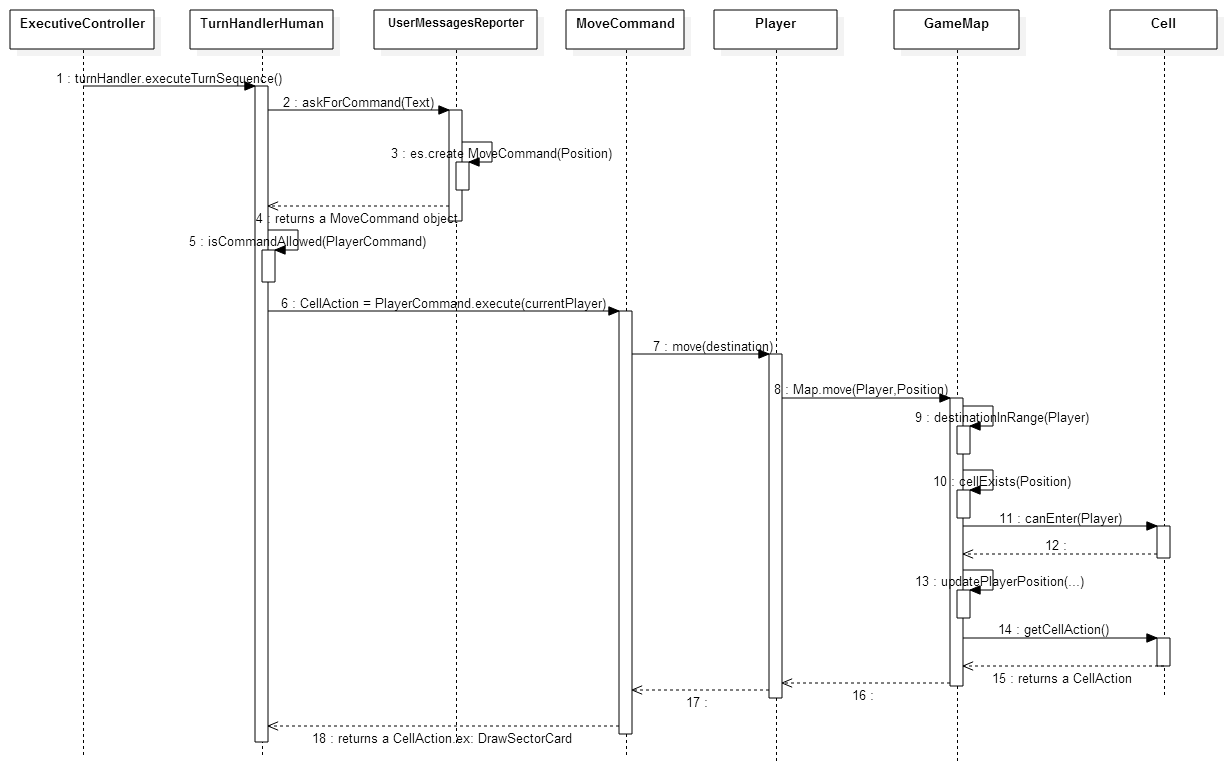
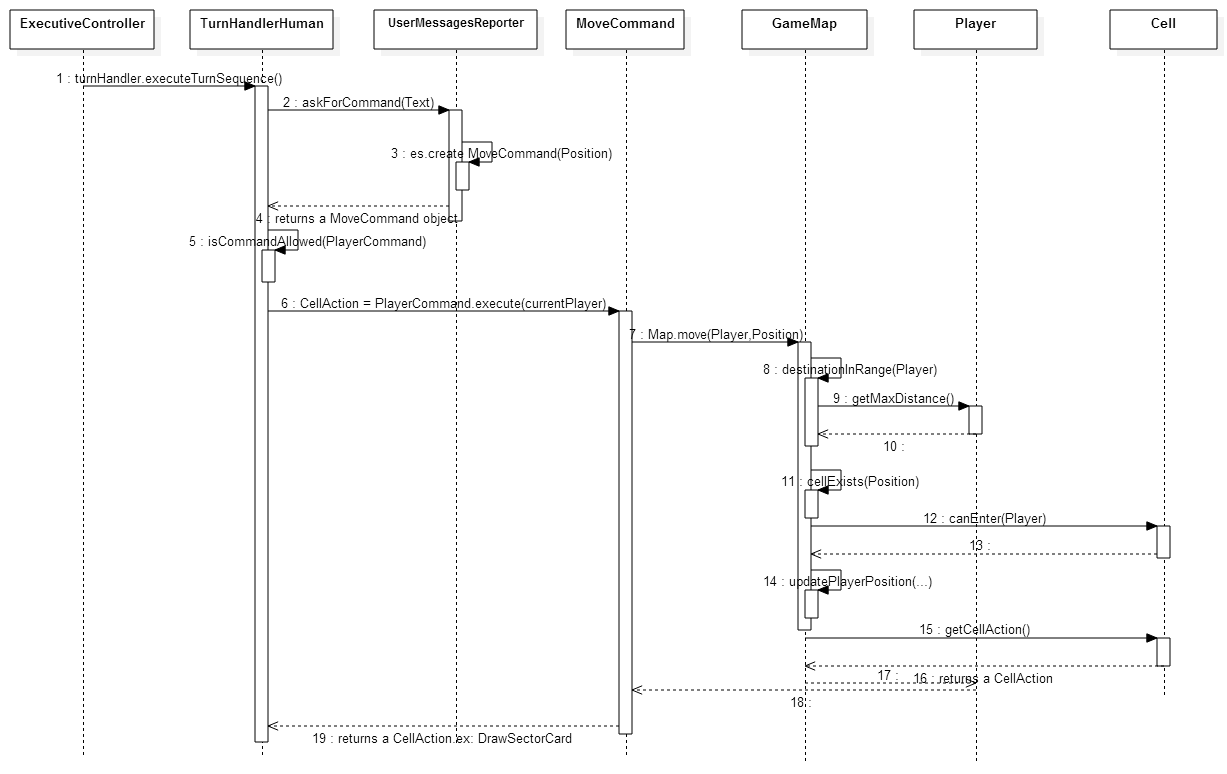
Fully updated sequence diagrams for a human's turn + fixed typo

diff --git a/src/main/java/it/escape/server/model/game/gamemap/GameMap.java b/src/main/java/it/escape/server/model/game/gamemap/GameMap.java
@@ -21,7 +21,7 @@ public class GameMap {
 	
 	private List characters;
 	
-	private HashMap<String, Cell> cells;		//this hasmap stores pairs such as: <A3,Cell(2,3,5)>
+	private HashMap<String, Cell> cells;		//this hashmap stores pairs such as: <A3,Cell(2,3,5)>
 	
 	private Cell startAliens = null;
 	
